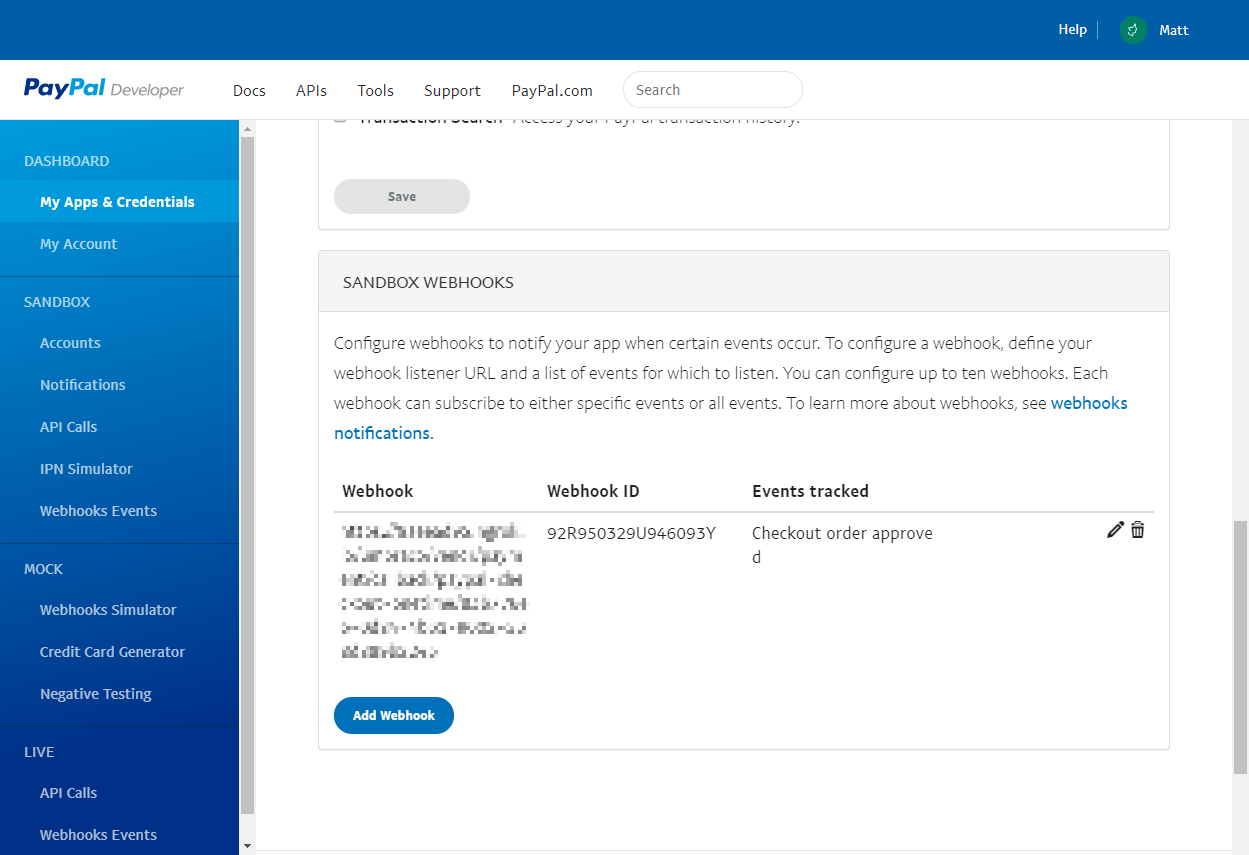
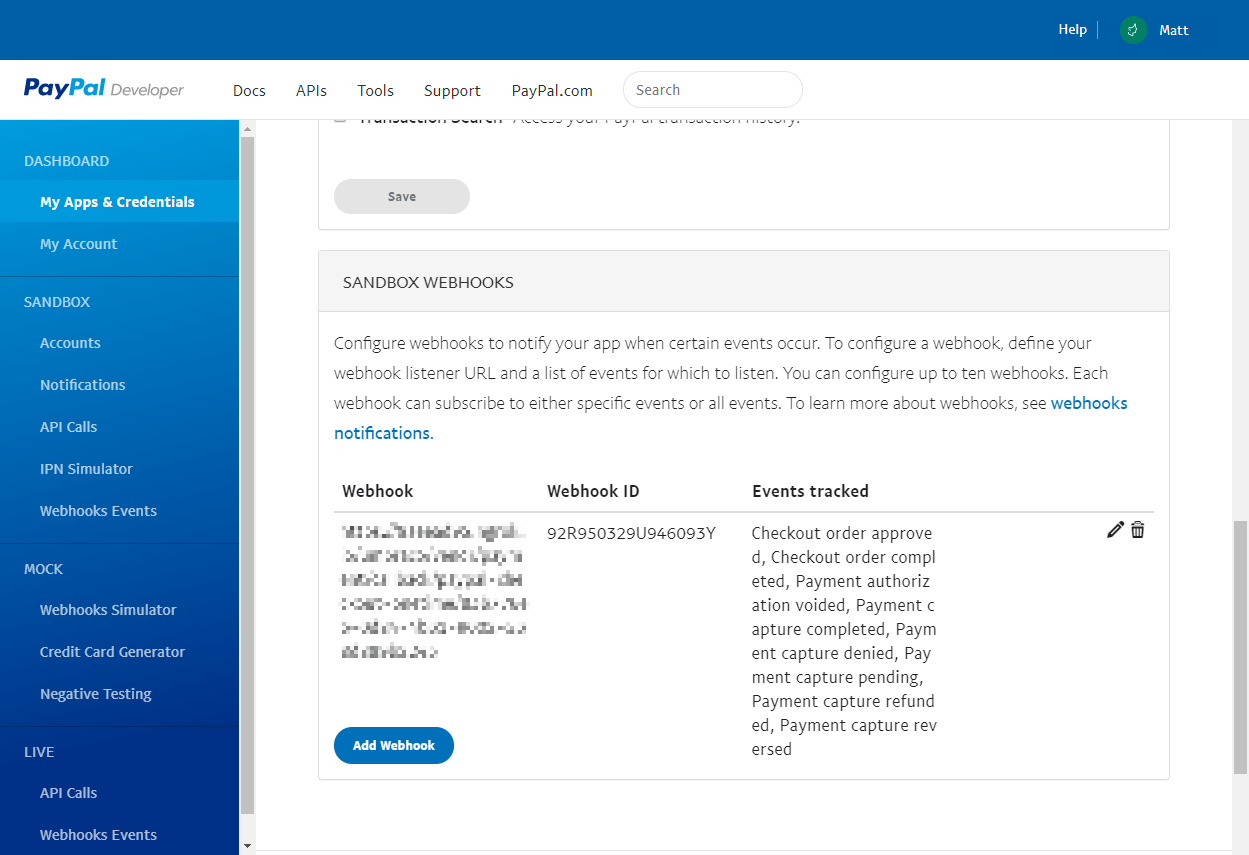
Updated paypal webhook docs

Changed region(s): [[0.5933, 0.6082, 0.7494, 0.8819], [0.2498, 0.7906, 0.3747, 0.9123]]

diff --git a/content/docs/payment-providers/paypal/1.0.0/paypal/getting-started/configuring-paypal.md b/content/docs/payment-providers/paypal/1.0.0/paypal/getting-started/configuring-paypal.md
@@ -51,7 +51,16 @@ For the webhook, you'll want to provide the URL where the webhook notifications 
 https://{store_domain}/umbraco/vendr/payment/callback/paypal-checkout-onetime/{payment_method_id}/
 ````
 
-You'll also want to select the **Event Types** to be notified of, for which the only option we require is the **Checkout order approved** event, by checking the appropriate checkbox next to that option and then clicking the **Save** button at the bottom.
+You'll also want to select the **Event Types** to be notified of, for which you'll want to check the following options by checking the appropriate checkboxes next to those options and then clicking the **Save** button at the bottom.
+
+* Checkout order approved
+* Checkout order completed
+* Payment authorization voided
+* Payment capture completed
+* Payment capture denied
+* Payment capture pending
+* Payment capture refunded
+* Payment capture reversed
 
 ![Create PayPal App Webhook](~/assets/images/screenshots/paypal/sandbox_webhook.png)
 
